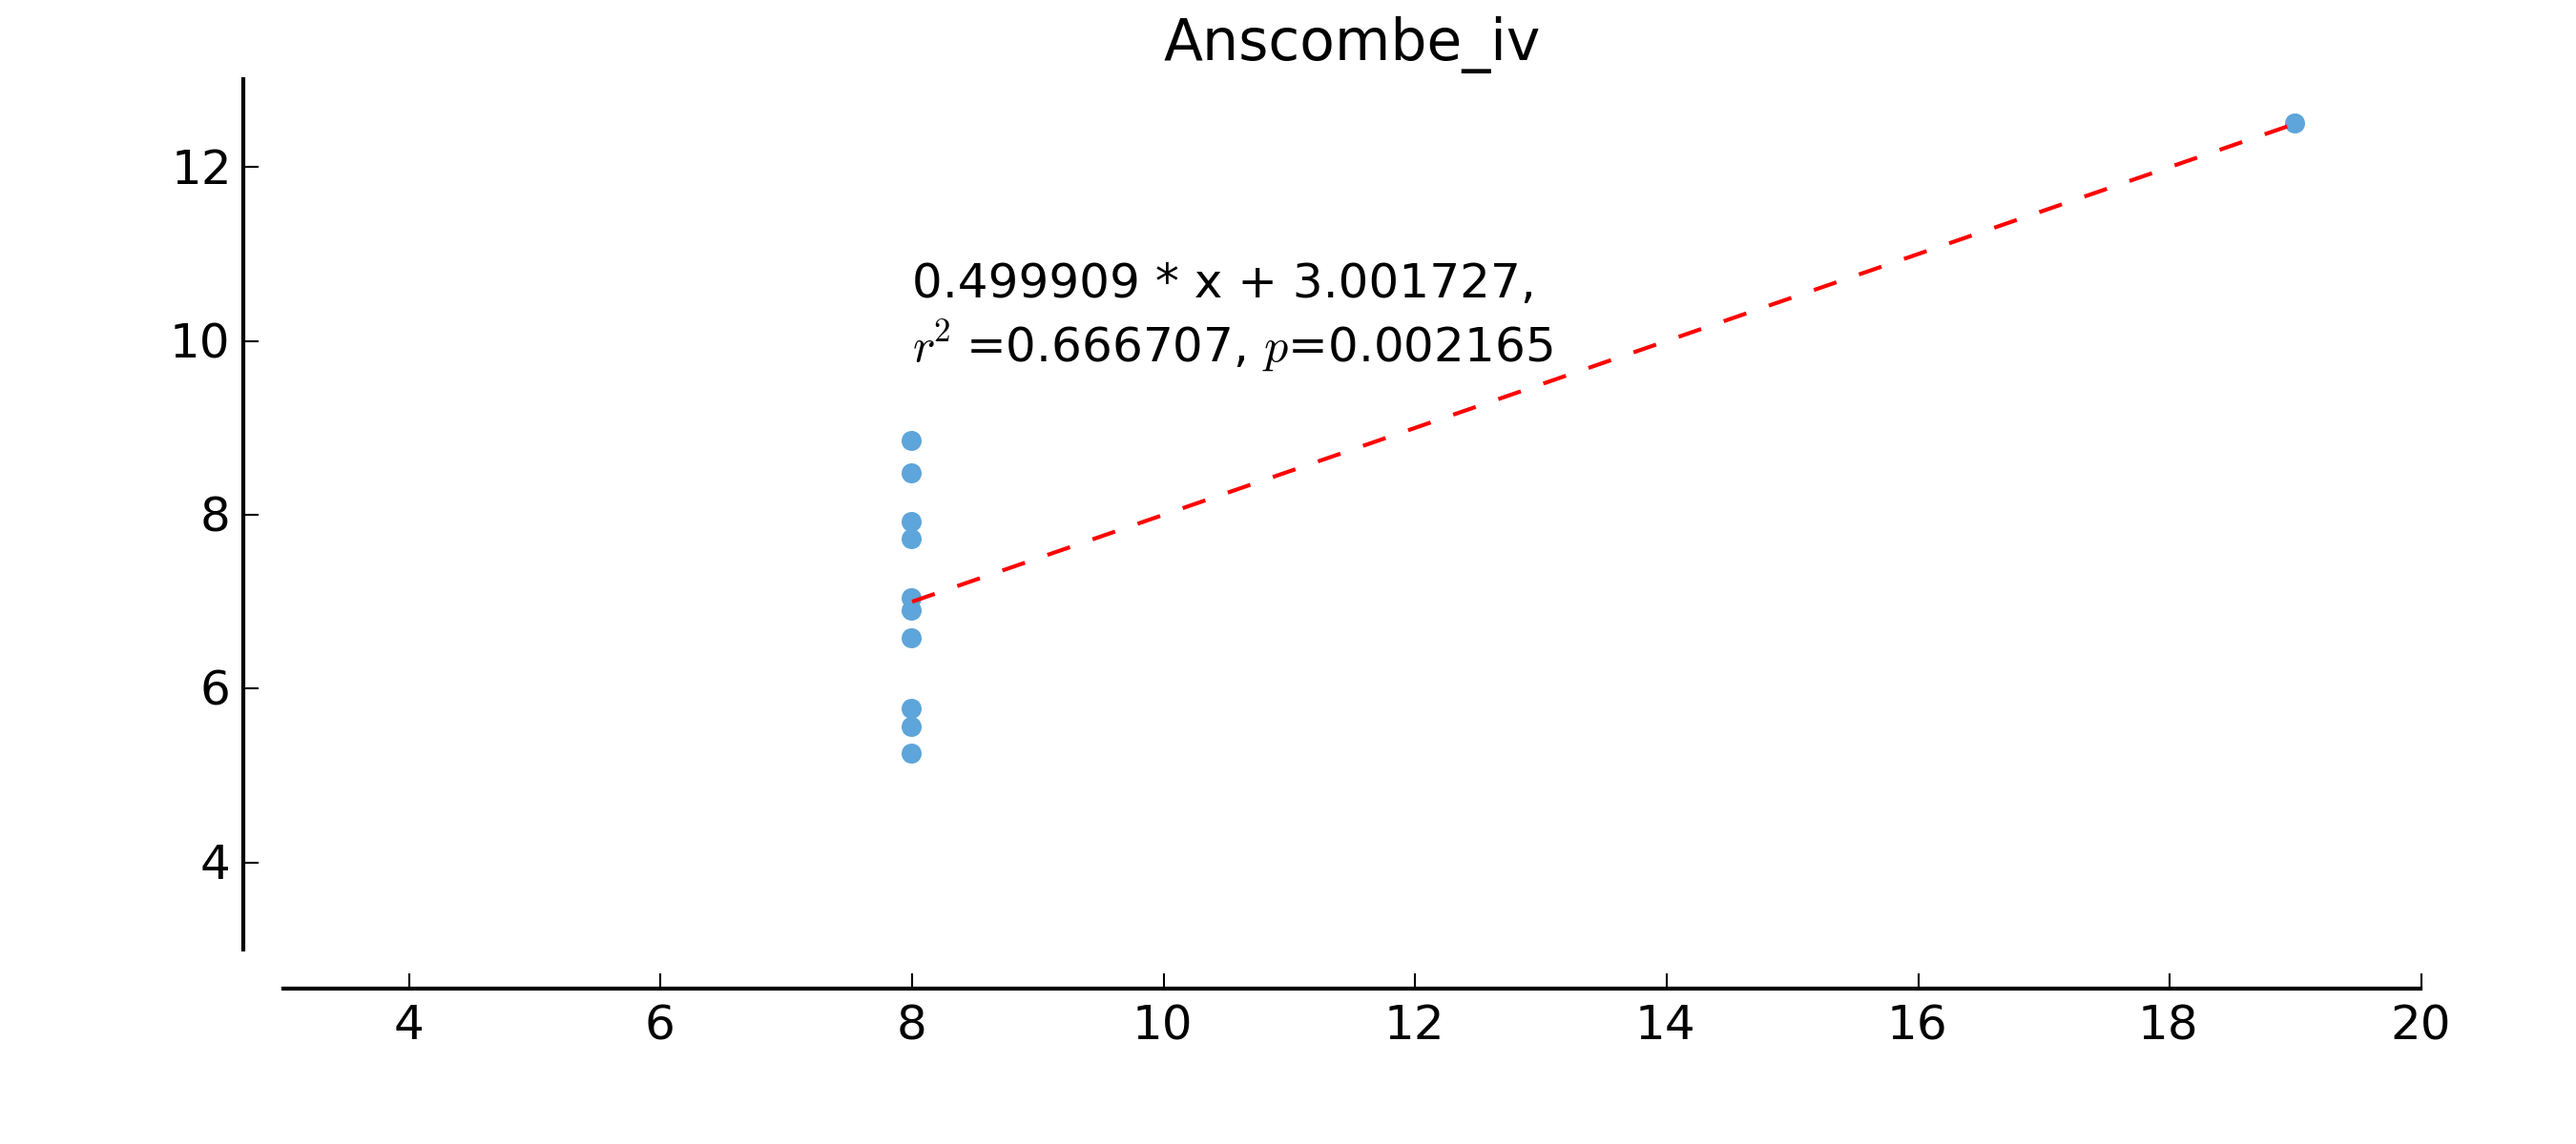
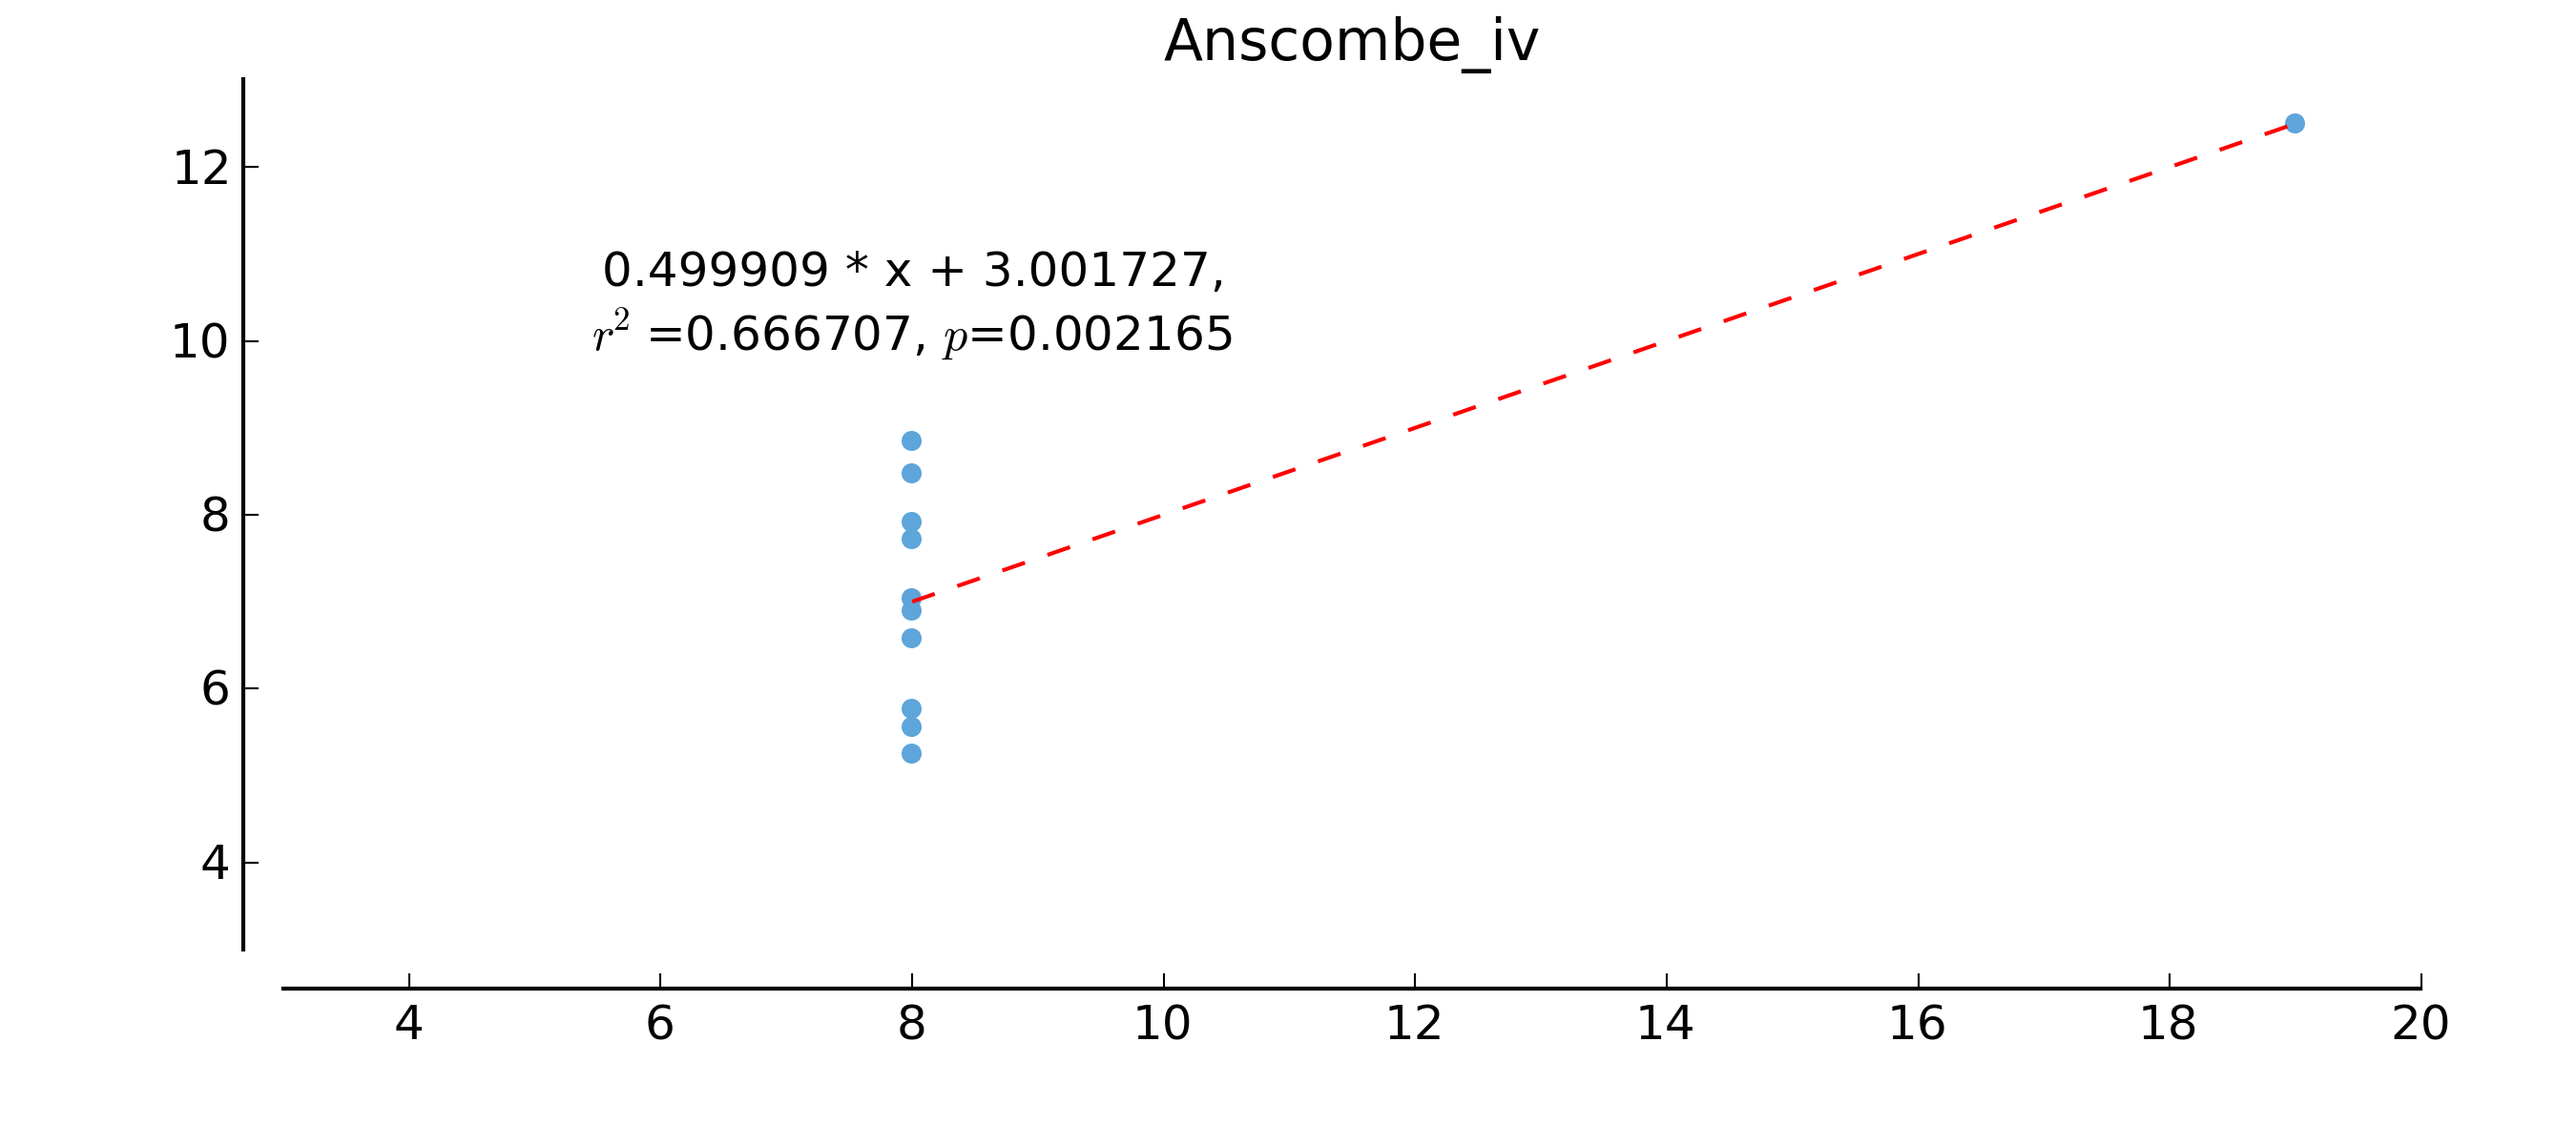
tweaking text placement for regressions

Changed region(s): [[0.2178, 0.2158, 0.5911, 0.3392]]

diff --git a/src/quick_plot.py b/src/quick_plot.py
@@ -678,7 +678,9 @@ def PlotLineScatter(data_list, ax, args):
       ax.text(x=(rxlist[0] + rxlist[-1]) / 2.0,
               y=(fitline[0] + fitline[-1]) / 2.0,
               s=('%f * x %s %f,\n$r^2$=%f, $p$=%f'
-                 % (w[0], op, w[1], r_value * r_value, p_value)))
+                 % (w[0], op, w[1], r_value * r_value, p_value)),
+              verticalalignment='bottom',
+              horizontalalignment='center')
 
 
 def ReadFiles(args):
